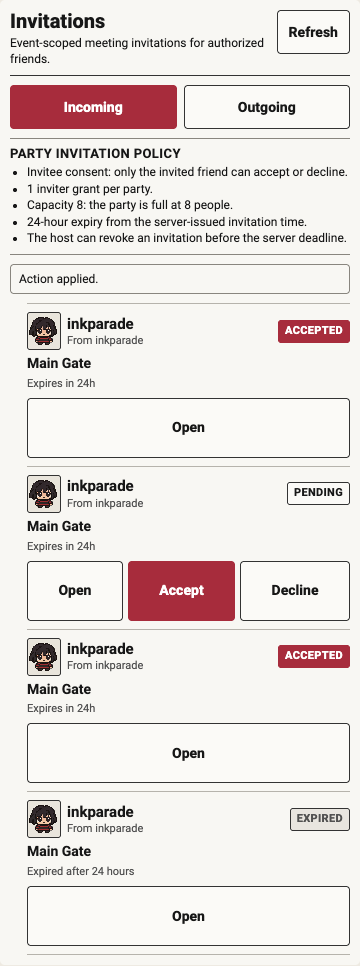
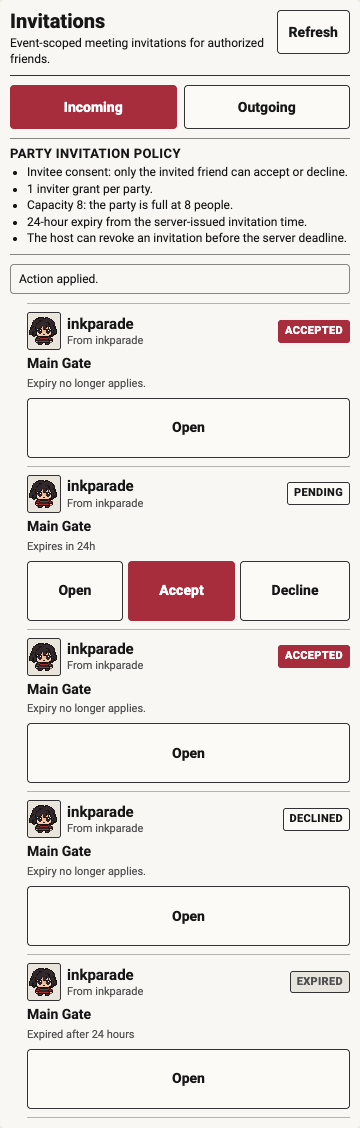
test(venue): refresh inbox evidence at the fix commit

diff --git a/docs/mcr/evidence/task-26-invitations/README.md b/docs/mcr/evidence/task-26-invitations/README.md
@@ -1,6 +1,8 @@
 # Task 26 — invitation and conversation client
 
 - Base: `cb44bb77cb35fd0efc0760033e45432579e29d71` (row 24 shell ports)
+- Feature commit: `c6185025a3db3fd31296b2270c90f98303ea74df`
+- Fix and route-grant commit: `2cf67de0977f319967817b9894d15897433b681d`
 - Branch: `codex/mcr-exec-w4-inv`
 - Status: implementation and developer-owned validation complete on the task branch; not merged or pushed.
 
@@ -11,6 +13,9 @@
 - `/meet/invitations` renders both directions with producer-supplied Pending, Accepted, Declined,
   Cancelled and Expired statuses. Accept/Decline/Cancel appear only when the producer's
   `allowedInvitationActions` grants them.
+- Expiry applies only to a Pending invitation past its producer deadline. Accepted, Declined and
+  Cancelled invitations always render the producer status and keep producer-granted terminal
+  actions even when the original deadline has passed. No terminal state is relabeled Expired.
 - Row actions first read the current invitation detail (GET only), then execute the exact
   revision/key/selection through the frozen client. A refused action keeps the producer status and
   surfaces the sanitized denial reason instead of inventing a transition.
@@ -21,9 +26,21 @@
   permission.
 - The approved W04 policy is surfaced as copy: invitee consent, one inviter grant per party,
   capacity 8, 24-hour expiry, host revoke. The client does not enforce it locally.
-- Expiry uses the producer's `expiresAt` and the qualified clock. The client does not fabricate a
-  timestamp. The frozen client refuses an expired PENDING inbox page; an EXPIRED producer row is
-  rendered as `Expired after 24 hours`.
+
+## Route grant
+
+`docs/mcr/venue/community/outcome.md#route-grant-provenance` records the invitation leaf route
+grant under plan row 26 and the venue amendment's extension IA state
+`invitation decisions/status`. The machine-readable grant is `routeGrants` in
+`docs/mcr/venue/community/source-handoff.json`:
+
+- `/meet/invitations`
+- `/meet/invitations/:invitationId`
+- `/meet/invitations/:invitationId/conversation`
+
+`frontend/src/app/__tests__/routes.test.ts` reads that record and asserts its authority/path list;
+it no longer keeps a private allowlist. `/meet/invitations` is a panel view state, not a bare-user
+DM entry and not a new wire protocol.
 
 ## Verification (Node 24.22.2, pnpm 11.7.0)
 
@@ -31,38 +48,61 @@
 | --- | --- | --- |
 | `corepack pnpm@11.7.0 install --frozen-lockfile --offline` | 0 | 199 packages reused from the shared store |
 | `corepack pnpm@11.7.0 run typecheck` | 0 | `tsc -b` clean |
-| `corepack pnpm@11.7.0 exec vitest run` (10 targeted files) | 0 | 235 passed |
-| `corepack pnpm@11.7.0 run test` (full suite) | 1 | 5711 passed, 14 skipped, 1 pre-existing failure in `c07-social-client/compatibility.test.ts` (pinned hash of untouched `domain-operations.generated.ts`) |
+| `corepack pnpm@11.7.0 exec vitest run` (10 targeted files) | 0 | 10 files, 239 tests passed |
+| `corepack pnpm@11.7.0 run test` (full suite) | 1 | 5715 passed, 14 skipped. Three pre-existing failures are named below; this run reproduced C07 and the two sharing-safety tests passed in isolation. |
 | `corepack pnpm@11.7.0 run lint` | 0 | no warnings in changed files; pre-existing warnings remain |
 | `corepack pnpm@11.7.0 run build` | 0 | Vite build complete |
-| `node e2e/venue-community/inbox-native.mjs` | 0 | 3 widths, 0 page errors, open writes 0 |
+| `node e2e/venue-community/inbox-native.mjs` | 0 | PASS at 360/390/430; `sourceCommit` `2cf67de0977f319967817b9894d15897433b681d` |
+
+### Pre-existing full-suite failures (out of scope)
+
+These three failures are not caused by this task and were not fixed or suppressed:
+
+1. `src/shared/api/__tests__/c07-social-client/compatibility.test.ts` —
+   "pins the exact public cohort without claiming all indexed fixtures are qualified" (C07
+   manifest pin; `frontend/src/shared/api/domain-operations.generated.ts` hash differs from the
+   retained pin).
+2. `src/app/social-composition/__tests__/sharing-safety-default/entry.test.tsx` —
+   "mounts actual USER report and blocks routes, rechecks target on submit, and retains the
+   original report key across navigation" (composition: duplicate "Blocked users" headings).
+3. `src/app/social-composition/__tests__/sharing-safety-default/entry.test.tsx` —
+   "requires Profile block confirmation, clears old privacy views, lists and confirms unblock
+   without restoring consent" (timing under the full-suite run).
+
+The final full run here reproduced (1); (2) and (3) passed in isolation and in repeated full runs
+on this host, so they remain documented as pre-existing composition/timing failures from the
+supplied review rather than claimed as fixed. No social-composition code, C07 pin or generated
+contract was modified.
 
 The new tests prove:
 
 - Opening the inbox, invitation detail and conversation issues only GET reads (`writes === 0`).
 - Accept, decline and cancel use current producer actions/revisions.
+- A terminal Accepted/Declined/Cancelled invitation past its deadline keeps the producer status
+  (`data-display-status`) and granted actions; only a Pending past-deadline row renders Expired.
 - A denied host revoke surfaces `denied` and leaves the accepted producer status unchanged.
 - A denied inbox read fails closed with no private rows.
-- Expired actions are not issued.
 - An accepted invitation id with `canSend: false` renders no composer and issues no write.
 - The sole authorized-friend MESSAGE path opens with no invitation and no write.
 
 ## Captures
 
 `inbox-native.json` records the controlled fixture clock, browser version, exact component bounds,
-zero write counts on open, per-action write counts, overflow and 44px target assertions. Captures are
-at 360, 390 and 430 CSS pixels, DPR 1:
+zero write counts on open, per-action write counts, overflow, 44px target assertions and the real
+source commit `2cf67de0977f319967817b9894d15897433b681d`. Captures are at 360, 390 and 430 CSS
+pixels, DPR 1:
 
-- `list-{360,390,430}.png`
+- `list-{360,390,430}.png` — includes Accepted, Declined and Cancelled rows whose original
+  `expiresAt` is in the past; they retain their producer status and show "Expiry no longer applies."
 - `accept-{360,390,430}.png`
 - `decline-{360,390,430}.png`
 - `expired-{360,390,430}.png`
 - `full-{360,390,430}.png`
 - `denied-{360,390,430}.png`
 
-The developer inspected the list, accept, decline, expired, full and denied states. The accepted
-incoming row loses Cancel; the accepted outgoing row keeps the producer-granted Cancel; the denied
-revoke keeps `Accepted`; the full banner is informational and does not hide producer actions.
+The developer inspected the list, accept, decline, expired, full and denied states. The selected
+tab, terminal producer states, pending expiry, full banner and denied host revoke are legible at all
+widths. No decorative left accent is used.
 
 ## Limitations
 
@@ -74,5 +114,8 @@ revoke keeps `Accepted`; the full banner is informational and does not hide prod
   controlled fixture and does not claim live capacity enforcement.
 - The W04 policy is distinct from M01. It is surfaced as policy copy only; no W04 route, producer or
   capability was added.
-- The new `/meet/invitations` route is an authorized extension-IA panel addition and is covered by
-  the route composition test. No new wire protocol was added.
+- The frozen client refuses an inbox page containing an expired PENDING invitation. The expired
+  capture uses the producer's EXPIRED state; the client also derives an expired display from a
+  producer deadline only for a Pending row.
+- The new `/meet/invitations` route is recorded by the route grant above; it is not a bare-user DM
+  entry and adds no wire protocol.
